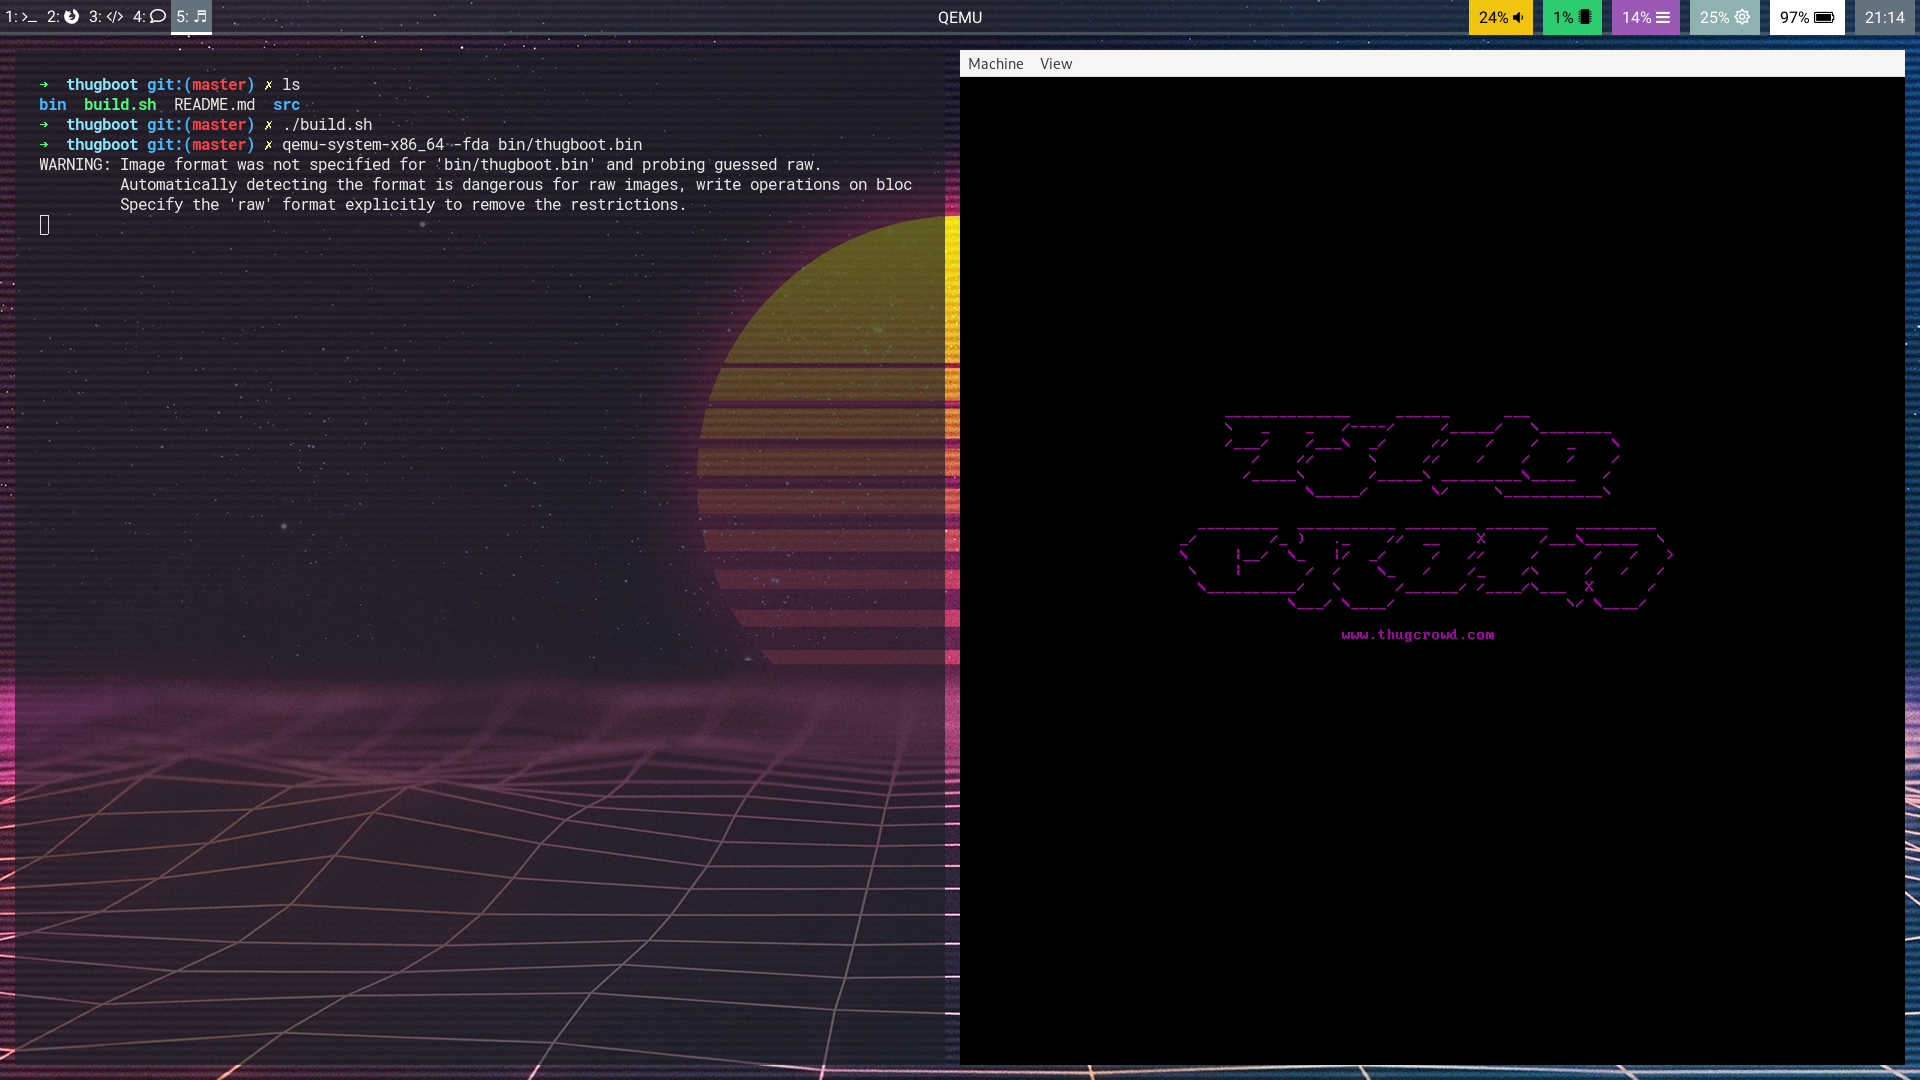
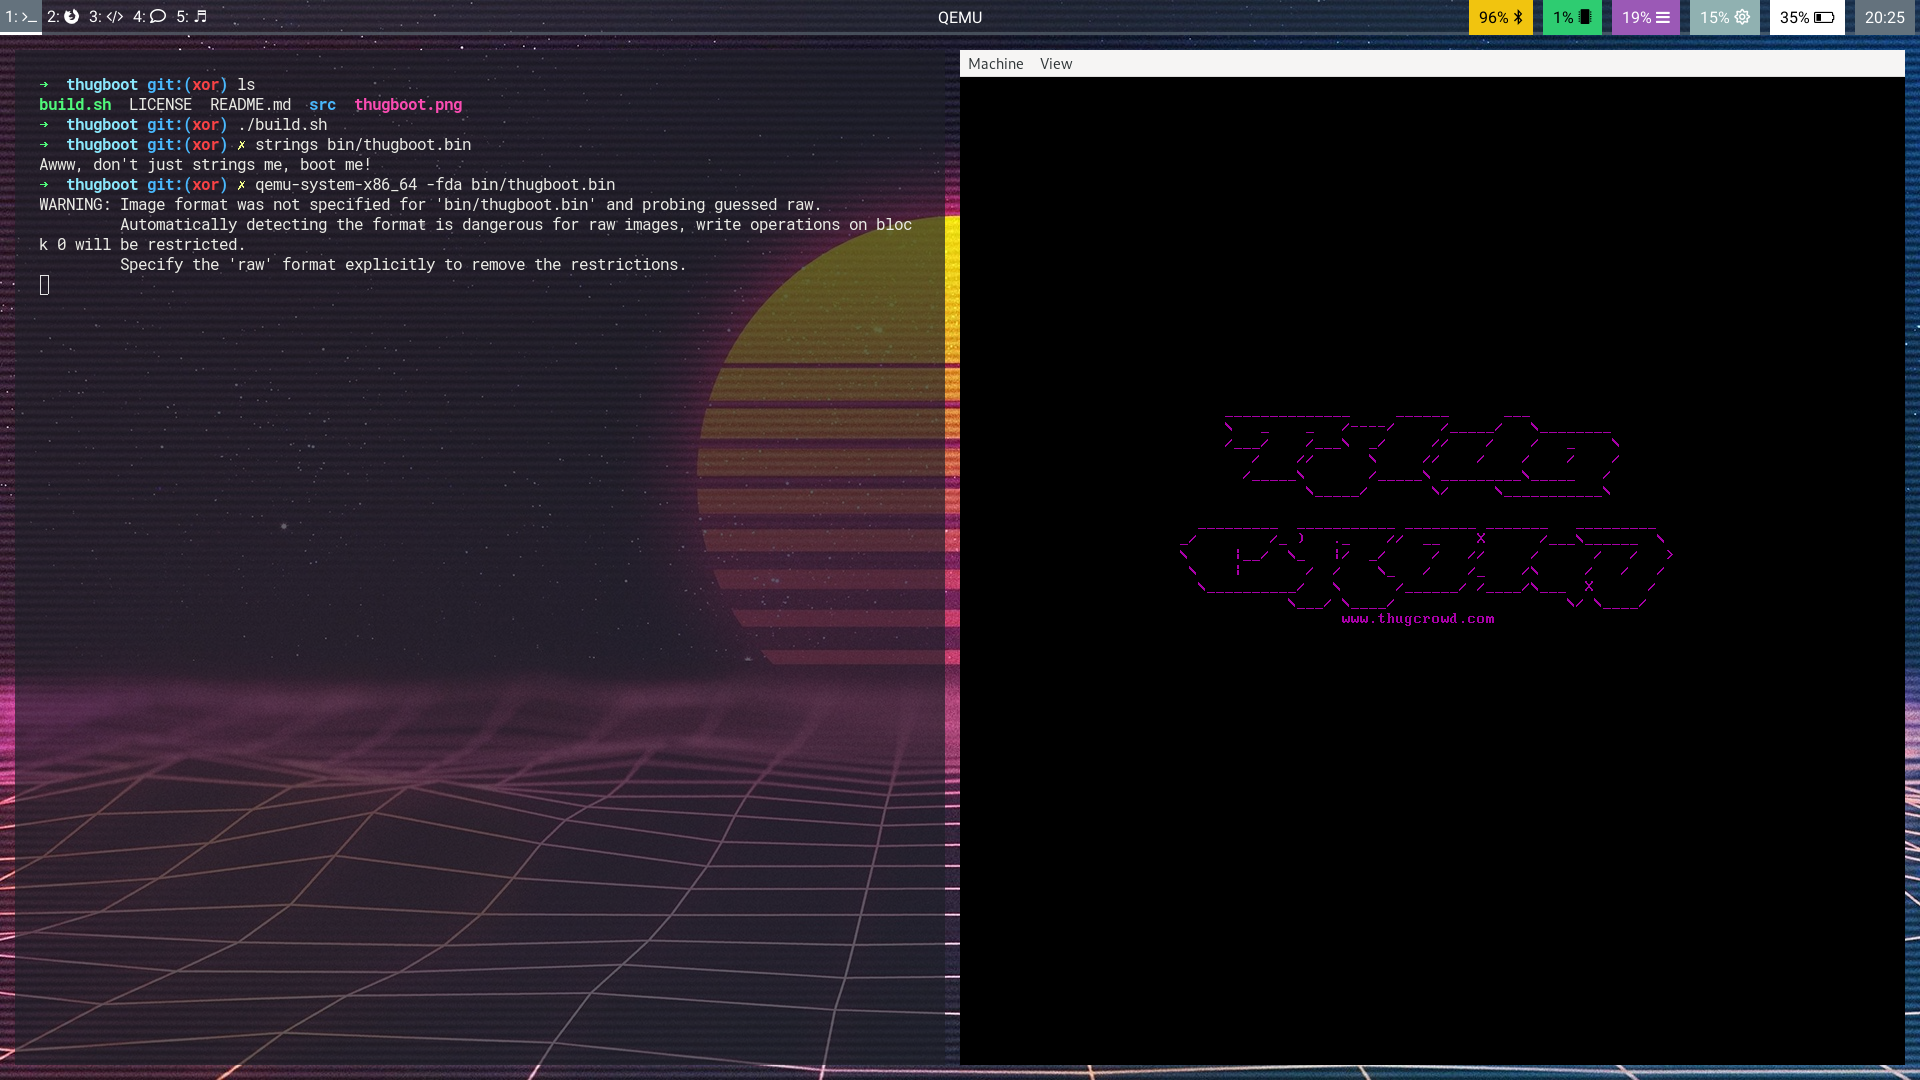
Updated to explain xor branch

diff --git a/README.md b/README.md
@@ -1,6 +1,8 @@
 # ThugBoot
 Generate the [ThugCrowd](https://thugcrowd.com) logo in x86 BIOS assembly.
 
+`XOR Branch`: Stored the output text as XORed bytes within the assembly. This way, if you run `strings` on the build, you won't see what gets output (though it's not hard to work it out...).
+
 ## About
 Not the prettiest x86 asm, but it works. Pieced together the asm from various places online. I plan to use this to learn more about BIOS assembly, but figure it's a decent starting point for someone else too.
 
